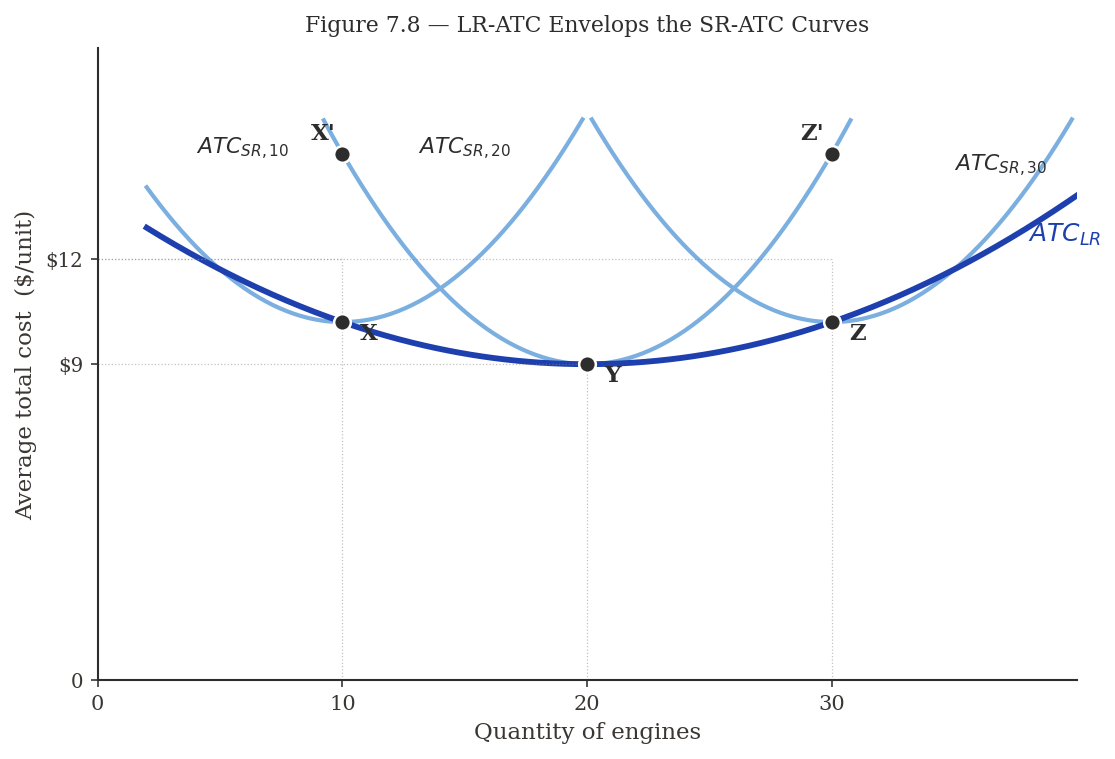
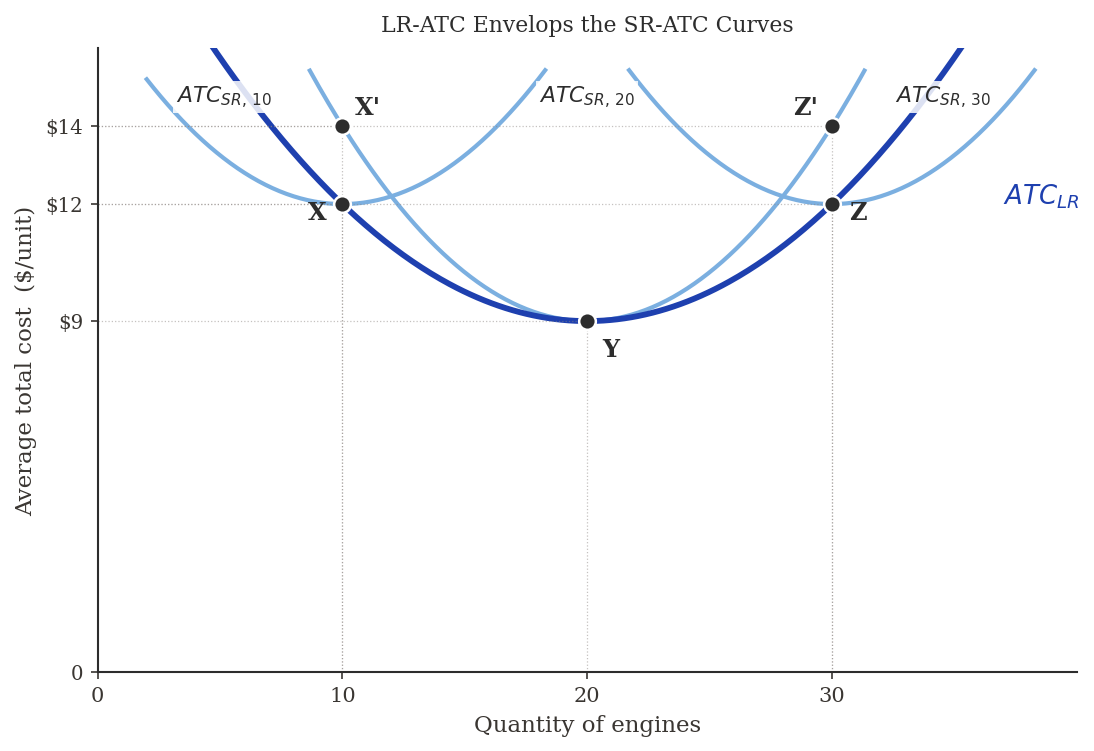
ch08: re-align engines SR/LR figures and clean up slides 49-52
- Slide 49: swap Font Awesome gears icon for engines.png illustration
- Slide 50: drop "Figure 7.5/7.6" caption labels, add 4-step fragment-revealed walkthrough (isoquants → isocost → LR path → SR path → TC mapping)
- Slide 51: replace "Figure 7.6 showed that" with "The previous figure showed that"
- Engines isoquants figure: rewrite with stylized hyperbolic isoquants + quadratic LR expansion path so X=(5,3), Y=(9,6), Z=(14,8), X'=(2.5,6), Z'=(18.67,6) land exactly where Goolsbee's textbook places them; reposition Q / C labels with white-bbox backgrounds to avoid collisions with SR / LR text
- ATC envelope figure: re-tune so X=Z=$12, Y=$9, X'=Z'=$14 with clean integer ticks; SR-ATC curves now plotted with steepness 0.05 around tangency K̄ = 10/20/30

diff --git a/econ2316/ch08-costs-of-production/index.html b/econ2316/ch08-costs-of-production/index.html
@@ -1605,7 +1605,7 @@
       </ul>
     </div>
     <div style="text-align: center;">
-      <i class="fa-solid fa-gears" style="font-size: 120pt; color: var(--secondary-color); opacity: 0.85;"></i>
+      <img alt="Aircraft / industrial engine illustration" src="figures/engines.png" style="max-width: 100%; max-height: 280px; object-fit: contain;">
       <p style="font-size: 10.5pt; color: var(--muted-color); font-style: italic; margin: 4px 0 0;">
         Capital and labor produce engines; quantities measured per week.
       </p>
@@ -1614,33 +1614,34 @@
   <aside class="notes">Intro to the SR/LR cost-curve section, using engines as the concrete pedagogical example (Goolsbee's standard). Set up: capital is fixed in the SR, both K and L variable in the LR. The next 4 slides build the geometry: isoquants + expansion paths (Fig 7.5), TC_SR vs TC_LR (Fig 7.6), ATC envelope (Fig 7.8), and MC comparison. The chapter's gigafactory anchor still applies — same cost-min logic, just rebranded to engines for the standard textbook visual. Forward pointer: the U-shaped LR-ATC envelope at Fig 7.8 requires DRS at scale (or some other source of long-run diseconomies); under our gigafactory's pure CRS Cobb-Douglas, LR-ATC is FLAT, not U-shaped — see the headline TC envelope figure two slides ahead for the gigafactory case.</aside>
 </section>
 
-<!-- ===== NEW — Figure 7.5 + Figure 7.6 side-by-side (engines isoquants + TC_SR/TC_LR) ===== -->
+<!-- ===== NEW — Engines: isoquants/expansion paths + TC_SR vs TC_LR (show by steps) ===== -->
 <section id="sr-lr-engines-figures">
   <h2><i class="fa-solid fa-chart-area" style="color: var(--secondary-color);"></i> Short-Run and Long-Run Cost Curves &mdash; Capital + Labor &rarr; Engines</h2>
-  <p style="font-size: 11.5pt; color: var(--muted-color); font-style: italic; margin: 0 0 4px; text-align: center;">
-    Capital and labor are used to produce engines (quantities per week).
+  <p style="font-size: 11pt; color: var(--muted-color); font-style: italic; margin: 0 0 4px; text-align: center;">
+    Capital and labor are used to produce engines (quantities per week). \(\bar K = 6\) is the SR capital stock.
   </p>
   <div style="display: grid; grid-template-columns: 1fr 1fr; gap: 14px; align-items: center;">
     <div style="text-align: center;">
-      <img alt="Figure 7.5 — capital-labor plane with isoquants Q=10, 20, 30, isocost lines at C=$100/$180/$300/$360, a yellow long-run expansion path through tangency points X, Y, Z, and a blue horizontal short-run expansion path at K-bar=6 with SR points X', Z'" src="figures/fig-engines-isoquants.png" style="width: 100%; max-height: 360px;">
-      <p style="font-size: 10pt; color: var(--muted-color); font-style: italic; margin: 4px 0 0;"><strong>Figure 7.5</strong></p>
+      <img alt="Capital-labor plane with three isoquants Q=10, 20, 30, three isocost lines at C=$110/$210/$300 with slope -w/r, a yellow long-run expansion path through LR tangency points X (5,3), Y (9,6), Z (14,8), and a blue horizontal short-run expansion path at K-bar=6 with SR points X' (2.5,6) and Z' (18.67,6)" src="figures/fig-engines-isoquants.png" style="width: 100%; max-height: 330px;">
     </div>
     <div style="text-align: center;">
-      <img alt="Figure 7.6 — total cost vs quantity of engines; TC_SR (light blue) sits above TC_LR (dark blue) everywhere except at point Y (Q=20, $180) where they coincide. Points X ($100), X' ($120), Z ($300), Z' ($360) marked." src="figures/fig-engines-tc-sr-lr.png" style="width: 100%; max-height: 360px;">
-      <p style="font-size: 10pt; color: var(--muted-color); font-style: italic; margin: 4px 0 0;"><strong>Figure 7.6</strong></p>
+      <img alt="Total cost vs quantity of engines; TC_SR (light blue) sits above TC_LR (dark blue) everywhere except at point Y (Q=20, $180) where they coincide. Points X ($100), X' ($120), Z ($300), Z' ($360) marked." src="figures/fig-engines-tc-sr-lr.png" style="width: 100%; max-height: 330px;">
     </div>
   </div>
-  <p style="font-size: 11.5pt; line-height: 1.45; margin: 8px 0 0; text-align: center;">
-    \(\bar K = 6\) is the SR capital stock. Y is the only output (\(Q=20\)) where SR is also LR-optimal &mdash; SR cost meets LR cost there.
-  </p>
-  <aside class="notes">Two-figure walkthrough. Figure 7.5 (left): isoquants Q=10, 20, 30 in the (L, K) plane; isocost lines at C=$100, $180, $300, $360 with slope -w/r; yellow LR expansion path threads the tangency points X (Q=10), Y (Q=20), Z (Q=30) — points where K/L = (a/b)(w/r); blue horizontal SR expansion path at K̄=6 forces the firm onto SR-optimal points X' (Q=10), Y (Q=20 — Y is on BOTH paths), Z' (Q=30). At Y the SR firm happens to be at the LR-optimal K, so SR=LR cost. At Q=10 and Q=30, SR is forced to use the WRONG K, so SR cost > LR cost. Figure 7.6 (right): translates this directly to a TC vs Q chart. TC_LR (dark blue) is the smooth envelope; TC_SR (light blue) sits above except at Y. Read off X ($100 LR), X' ($120 SR), Y ($180 both), Z ($300 LR), Z' ($360 SR).</aside>
+  <ol style="font-size: 11.5pt; line-height: 1.45; margin: 8px 0 0; padding-left: 22px; columns: 2; column-gap: 20px;">
+    <li class="fragment fade-in"><strong>Isoquants</strong> \(Q = 10, 20, 30\) and <strong>isocost</strong> lines (slope \(-w/r\)).</li>
+    <li class="fragment fade-in"><strong>LR expansion path</strong> (yellow) threads tangencies <strong>X, Y, Z</strong>.</li>
+    <li class="fragment fade-in"><strong>SR expansion path</strong> (blue) is horizontal at \(\bar K = 6\); SR points <strong>X', Z'</strong> use the wrong \(K\).</li>
+    <li class="fragment fade-in">Right panel: same outputs on TC. <strong>Y</strong> is the only \(Q\) where SR &equals; LR cost; elsewhere SR sits <em>above</em> LR.</li>
+  </ol>
+  <aside class="notes">Two-figure walkthrough — built up in 4 fragment steps so the class can read it in order. Left: isoquants Q=10, 20, 30 in the (L, K) plane; isocost lines at C=$110, $210, $300 with slope -w/r; yellow LR expansion path threads tangency points X (5,3), Y (9,6), Z (14,8) — points where MRTS = w/r; blue horizontal SR expansion path at K̄=6 forces SR points X' (2.5, 6), Y (9, 6 — both LR and SR), Z' (18.67, 6). At Y the SR firm happens to be at the LR-optimal K, so SR=LR cost. At Q=10 and Q=30, SR is forced to use the WRONG K, so SR cost > LR cost. Right panel translates this to TC vs Q: TC_LR (dark blue) is the smooth envelope; TC_SR (light blue) sits above except at Y. Read off X ($100 LR), X' ($120 SR), Y ($180 both), Z ($300 LR), Z' ($360 SR). The stylized isoquants here are rectangular hyperbolas tuned to land the marked points exactly on the textbook's positions; the LR expansion path is a quadratic fit through X, Y, Z. This preserves the qualitative story (DRS, U-shaped LR-ATC ahead) without requiring a single closed-form Cobb-Douglas that fits all marked points.</aside>
 </section>
 
 <!-- ===== NEW — SR vs LR ATC text ===== -->
 <section id="sr-lr-atc-text">
   <h2><i class="fa-solid fa-arrow-trend-down" style="color: var(--secondary-color);"></i> Short-Run vs Long-Run Average Total Cost Curves</h2>
   <p style="font-size: 13pt; line-height: 1.55; margin: 0 0 10px;">
-    Figure 7.6 showed that <strong>the short-run total cost curve will <em>never</em> fall below the long-run total cost curve</strong>.
+    The previous figure showed that <strong>the short-run total cost curve will <em>never</em> fall below the long-run total cost curve</strong>.
   </p>
   <ul style="font-size: 13pt; line-height: 1.65; margin: 0 0 14px; padding-left: 24px;">
     <li>This further implies that the <strong>short-run average total cost curve will <em>never</em> fall below the long-run average total cost curve</strong>.</li>

diff --git a/econ2316/ch08-costs-of-production/presentation.html b/econ2316/ch08-costs-of-production/presentation.html
@@ -1605,7 +1605,7 @@
       </ul>
     </div>
     <div style="text-align: center;">
-      <i class="fa-solid fa-gears" style="font-size: 120pt; color: var(--secondary-color); opacity: 0.85;"></i>
+      <img alt="Aircraft / industrial engine illustration" src="figures/engines.png" style="max-width: 100%; max-height: 280px; object-fit: contain;">
       <p style="font-size: 10.5pt; color: var(--muted-color); font-style: italic; margin: 4px 0 0;">
         Capital and labor produce engines; quantities measured per week.
       </p>
@@ -1614,33 +1614,34 @@
   <aside class="notes">Intro to the SR/LR cost-curve section, using engines as the concrete pedagogical example (Goolsbee's standard). Set up: capital is fixed in the SR, both K and L variable in the LR. The next 4 slides build the geometry: isoquants + expansion paths (Fig 7.5), TC_SR vs TC_LR (Fig 7.6), ATC envelope (Fig 7.8), and MC comparison. The chapter's gigafactory anchor still applies — same cost-min logic, just rebranded to engines for the standard textbook visual. Forward pointer: the U-shaped LR-ATC envelope at Fig 7.8 requires DRS at scale (or some other source of long-run diseconomies); under our gigafactory's pure CRS Cobb-Douglas, LR-ATC is FLAT, not U-shaped — see the headline TC envelope figure two slides ahead for the gigafactory case.</aside>
 </section>
 
-<!-- ===== NEW — Figure 7.5 + Figure 7.6 side-by-side (engines isoquants + TC_SR/TC_LR) ===== -->
+<!-- ===== NEW — Engines: isoquants/expansion paths + TC_SR vs TC_LR (show by steps) ===== -->
 <section id="sr-lr-engines-figures">
   <h2><i class="fa-solid fa-chart-area" style="color: var(--secondary-color);"></i> Short-Run and Long-Run Cost Curves &mdash; Capital + Labor &rarr; Engines</h2>
-  <p style="font-size: 11.5pt; color: var(--muted-color); font-style: italic; margin: 0 0 4px; text-align: center;">
-    Capital and labor are used to produce engines (quantities per week).
+  <p style="font-size: 11pt; color: var(--muted-color); font-style: italic; margin: 0 0 4px; text-align: center;">
+    Capital and labor are used to produce engines (quantities per week). \(\bar K = 6\) is the SR capital stock.
   </p>
   <div style="display: grid; grid-template-columns: 1fr 1fr; gap: 14px; align-items: center;">
     <div style="text-align: center;">
-      <img alt="Figure 7.5 — capital-labor plane with isoquants Q=10, 20, 30, isocost lines at C=$100/$180/$300/$360, a yellow long-run expansion path through tangency points X, Y, Z, and a blue horizontal short-run expansion path at K-bar=6 with SR points X', Z'" src="figures/fig-engines-isoquants.png" style="width: 100%; max-height: 360px;">
-      <p style="font-size: 10pt; color: var(--muted-color); font-style: italic; margin: 4px 0 0;"><strong>Figure 7.5</strong></p>
+      <img alt="Capital-labor plane with three isoquants Q=10, 20, 30, three isocost lines at C=$110/$210/$300 with slope -w/r, a yellow long-run expansion path through LR tangency points X (5,3), Y (9,6), Z (14,8), and a blue horizontal short-run expansion path at K-bar=6 with SR points X' (2.5,6) and Z' (18.67,6)" src="figures/fig-engines-isoquants.png" style="width: 100%; max-height: 330px;">
     </div>
     <div style="text-align: center;">
-      <img alt="Figure 7.6 — total cost vs quantity of engines; TC_SR (light blue) sits above TC_LR (dark blue) everywhere except at point Y (Q=20, $180) where they coincide. Points X ($100), X' ($120), Z ($300), Z' ($360) marked." src="figures/fig-engines-tc-sr-lr.png" style="width: 100%; max-height: 360px;">
-      <p style="font-size: 10pt; color: var(--muted-color); font-style: italic; margin: 4px 0 0;"><strong>Figure 7.6</strong></p>
+      <img alt="Total cost vs quantity of engines; TC_SR (light blue) sits above TC_LR (dark blue) everywhere except at point Y (Q=20, $180) where they coincide. Points X ($100), X' ($120), Z ($300), Z' ($360) marked." src="figures/fig-engines-tc-sr-lr.png" style="width: 100%; max-height: 330px;">
     </div>
   </div>
-  <p style="font-size: 11.5pt; line-height: 1.45; margin: 8px 0 0; text-align: center;">
-    \(\bar K = 6\) is the SR capital stock. Y is the only output (\(Q=20\)) where SR is also LR-optimal &mdash; SR cost meets LR cost there.
-  </p>
-  <aside class="notes">Two-figure walkthrough. Figure 7.5 (left): isoquants Q=10, 20, 30 in the (L, K) plane; isocost lines at C=$100, $180, $300, $360 with slope -w/r; yellow LR expansion path threads the tangency points X (Q=10), Y (Q=20), Z (Q=30) — points where K/L = (a/b)(w/r); blue horizontal SR expansion path at K̄=6 forces the firm onto SR-optimal points X' (Q=10), Y (Q=20 — Y is on BOTH paths), Z' (Q=30). At Y the SR firm happens to be at the LR-optimal K, so SR=LR cost. At Q=10 and Q=30, SR is forced to use the WRONG K, so SR cost > LR cost. Figure 7.6 (right): translates this directly to a TC vs Q chart. TC_LR (dark blue) is the smooth envelope; TC_SR (light blue) sits above except at Y. Read off X ($100 LR), X' ($120 SR), Y ($180 both), Z ($300 LR), Z' ($360 SR).</aside>
+  <ol style="font-size: 11.5pt; line-height: 1.45; margin: 8px 0 0; padding-left: 22px; columns: 2; column-gap: 20px;">
+    <li class="fragment fade-in"><strong>Isoquants</strong> \(Q = 10, 20, 30\) and <strong>isocost</strong> lines (slope \(-w/r\)).</li>
+    <li class="fragment fade-in"><strong>LR expansion path</strong> (yellow) threads tangencies <strong>X, Y, Z</strong>.</li>
+    <li class="fragment fade-in"><strong>SR expansion path</strong> (blue) is horizontal at \(\bar K = 6\); SR points <strong>X', Z'</strong> use the wrong \(K\).</li>
+    <li class="fragment fade-in">Right panel: same outputs on TC. <strong>Y</strong> is the only \(Q\) where SR &equals; LR cost; elsewhere SR sits <em>above</em> LR.</li>
+  </ol>
+  <aside class="notes">Two-figure walkthrough — built up in 4 fragment steps so the class can read it in order. Left: isoquants Q=10, 20, 30 in the (L, K) plane; isocost lines at C=$110, $210, $300 with slope -w/r; yellow LR expansion path threads tangency points X (5,3), Y (9,6), Z (14,8) — points where MRTS = w/r; blue horizontal SR expansion path at K̄=6 forces SR points X' (2.5, 6), Y (9, 6 — both LR and SR), Z' (18.67, 6). At Y the SR firm happens to be at the LR-optimal K, so SR=LR cost. At Q=10 and Q=30, SR is forced to use the WRONG K, so SR cost > LR cost. Right panel translates this to TC vs Q: TC_LR (dark blue) is the smooth envelope; TC_SR (light blue) sits above except at Y. Read off X ($100 LR), X' ($120 SR), Y ($180 both), Z ($300 LR), Z' ($360 SR). The stylized isoquants here are rectangular hyperbolas tuned to land the marked points exactly on the textbook's positions; the LR expansion path is a quadratic fit through X, Y, Z. This preserves the qualitative story (DRS, U-shaped LR-ATC ahead) without requiring a single closed-form Cobb-Douglas that fits all marked points.</aside>
 </section>
 
 <!-- ===== NEW — SR vs LR ATC text ===== -->
 <section id="sr-lr-atc-text">
   <h2><i class="fa-solid fa-arrow-trend-down" style="color: var(--secondary-color);"></i> Short-Run vs Long-Run Average Total Cost Curves</h2>
   <p style="font-size: 13pt; line-height: 1.55; margin: 0 0 10px;">
-    Figure 7.6 showed that <strong>the short-run total cost curve will <em>never</em> fall below the long-run total cost curve</strong>.
+    The previous figure showed that <strong>the short-run total cost curve will <em>never</em> fall below the long-run total cost curve</strong>.
   </p>
   <ul style="font-size: 13pt; line-height: 1.65; margin: 0 0 14px; padding-left: 24px;">
     <li>This further implies that the <strong>short-run average total cost curve will <em>never</em> fall below the long-run average total cost curve</strong>.</li>
